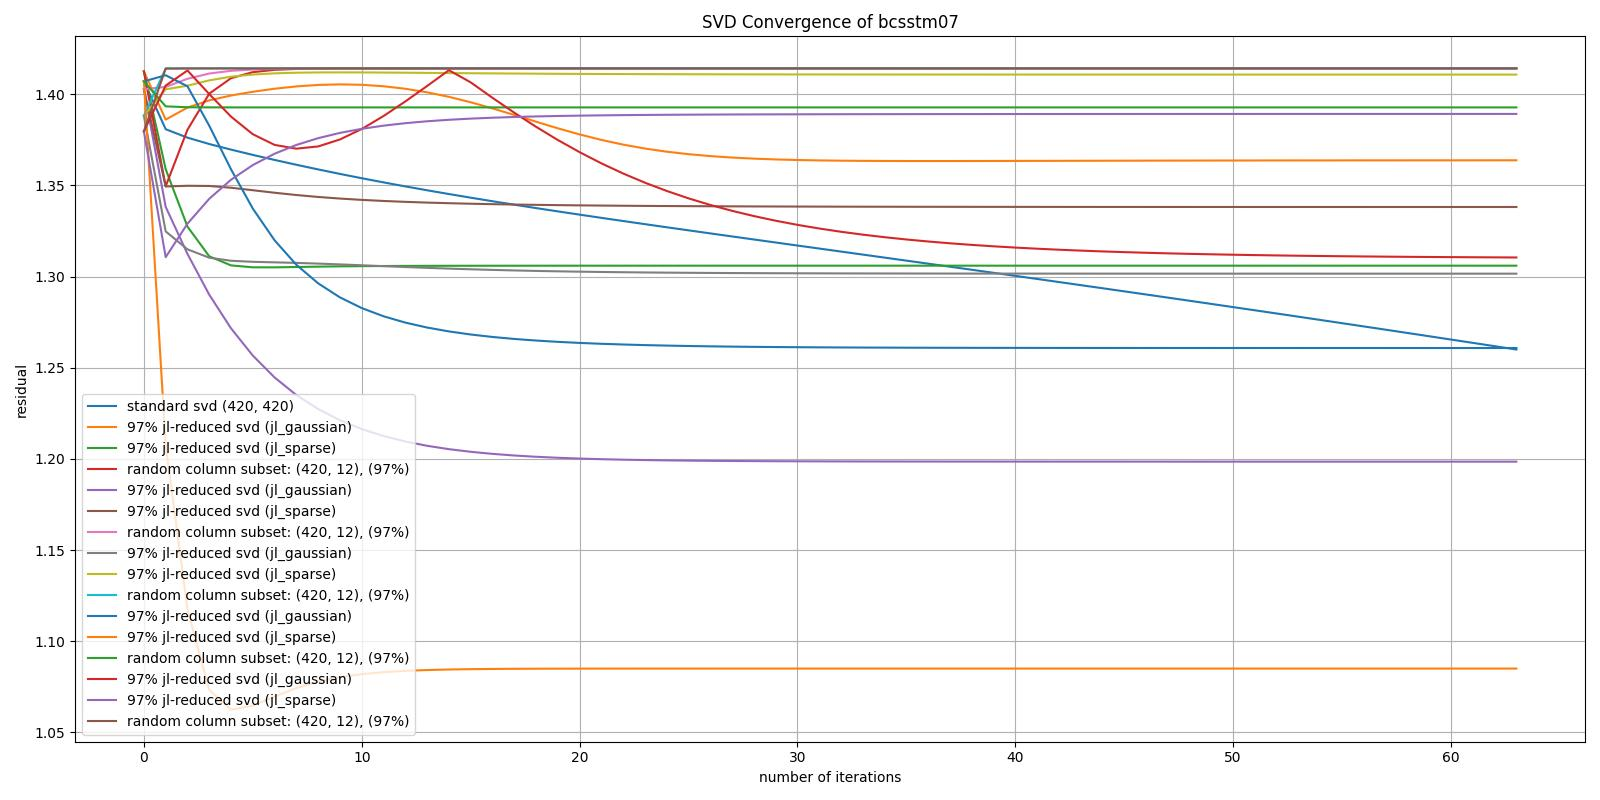
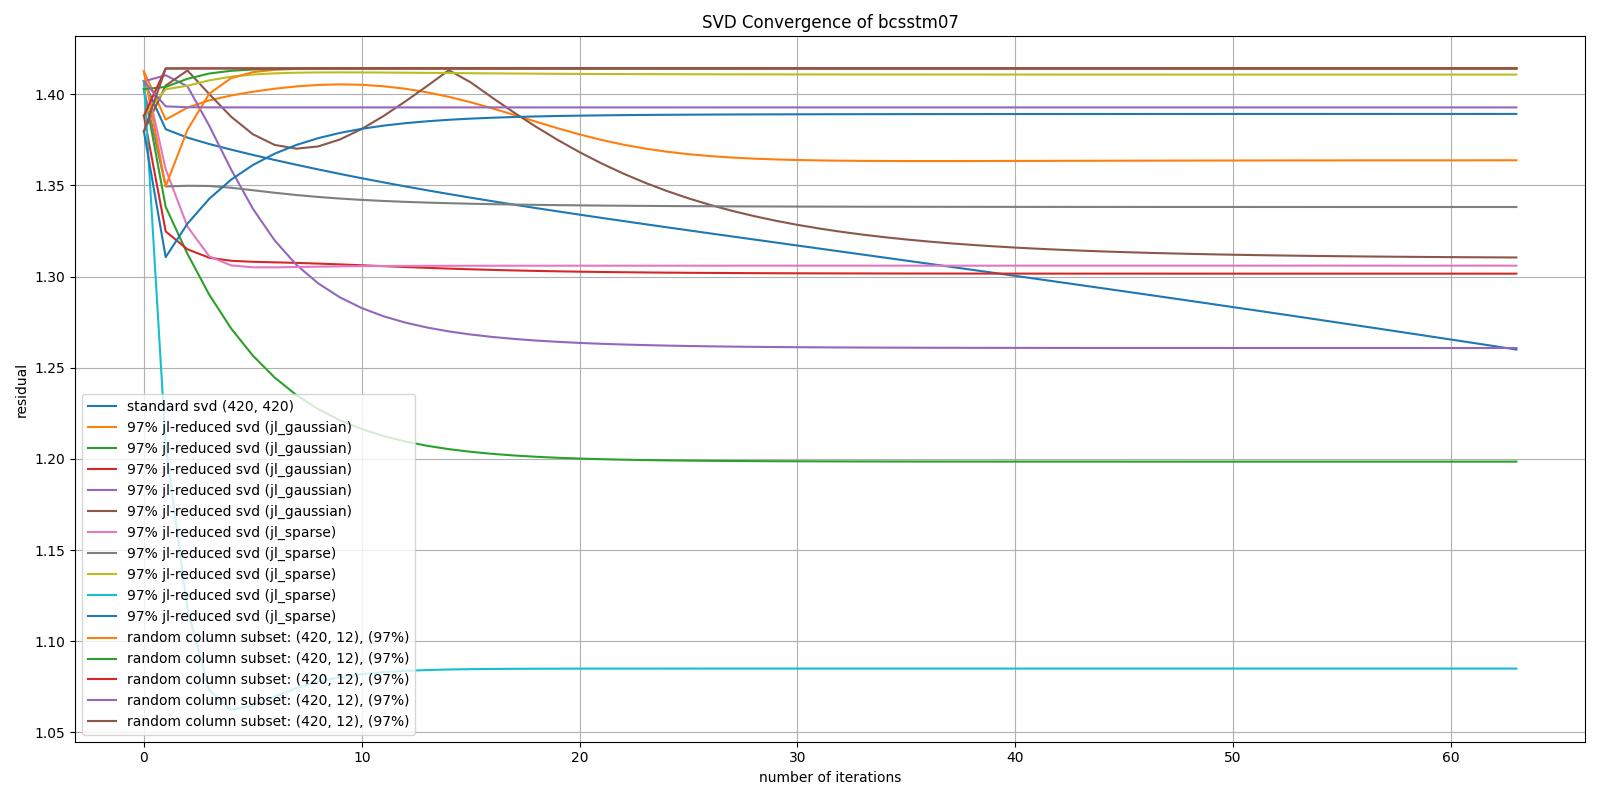
made graphs slightly more readable

diff --git a/src/svd.py b/src/svd.py
@@ -124,9 +124,11 @@ if __name__ == '__main__':
 
         test(baseline_svd_convergence, plotter, mat, seed, num_avg, num_iter)
         
-        for i in range(5):
-            for type in types:
+        for type in types:
+            for i in range(5):
                 test(jl_percent_reduced, plotter, mat, seed * i + i, num_avg, num_iter, {"p": p, "type" : type})
+            
+        for i in range(5):
             test(percent_subset_svd, plotter, mat, seed * i + i, num_avg, num_iter, {"p": p})
 
         plotter.finish()
